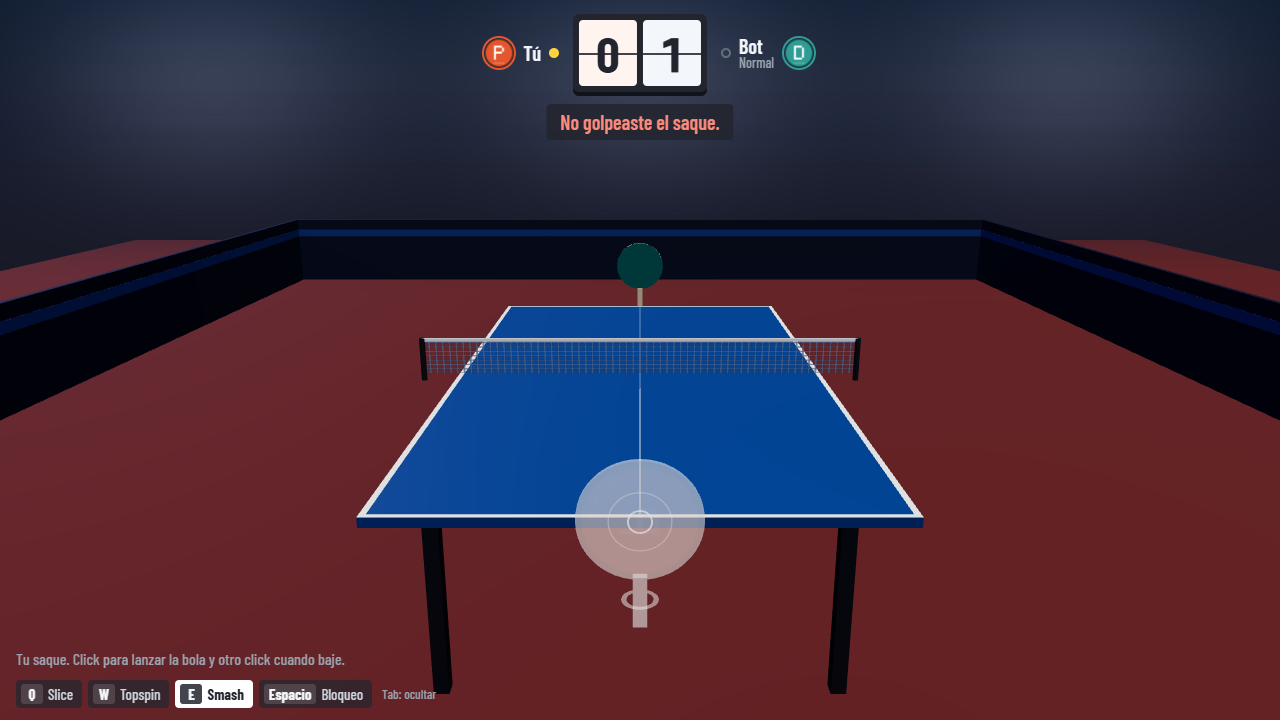
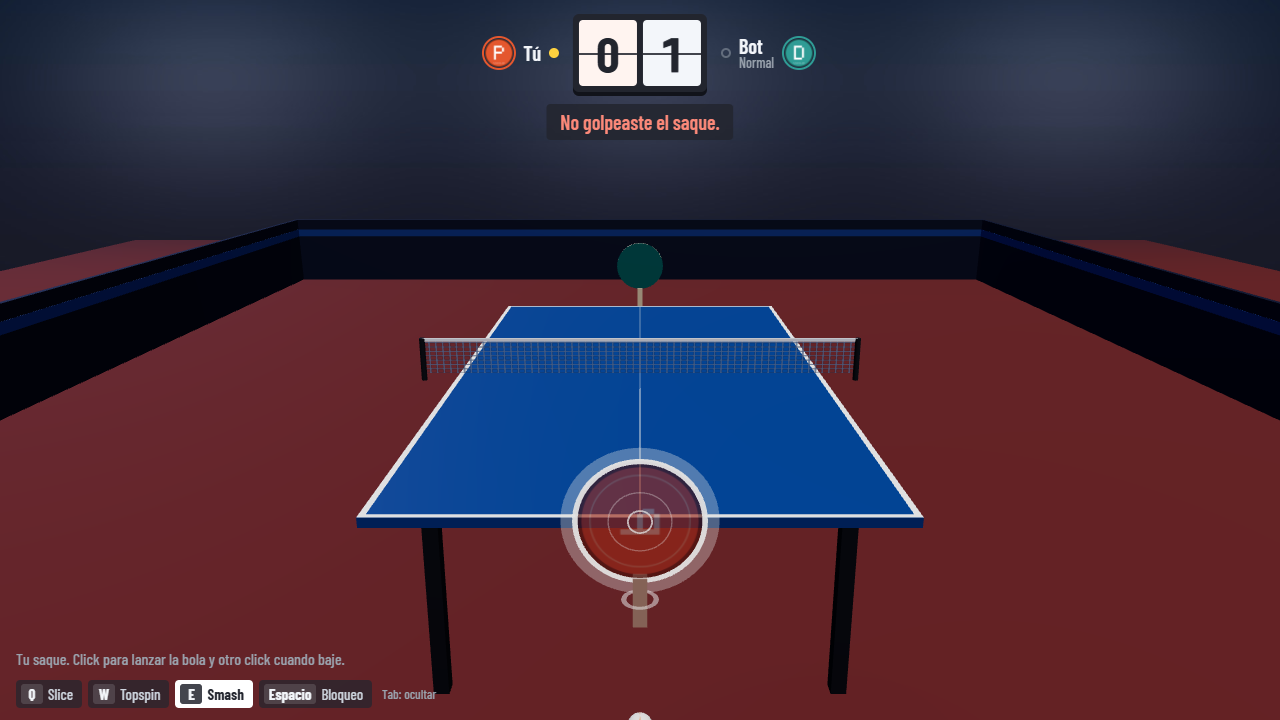
feat(client): held shot key lights only the paddle outline
Author's request (2026-10-03): "que solo se ilumine el contorno, no toda la
raqueta". The face, rim and handle keep their look; a ring in the shot colour
sits on the edge of the local paddle (1.2 cm) with a soft halo outside
(2.5 cm, opacity 0.35) while the key is held. The PERFECT flash is back to
the face-only flash of V0.2b. Checked in the browser for Q/W/E/Space; the
held-key screenshots are regenerated.

Changed region(s): [[0.4375, 0.6111, 0.5625, 0.8556], [0.4688, 0.9778, 0.5312, 1.0]]

diff --git a/client/src/render/world.ts b/client/src/render/world.ts
@@ -47,26 +47,35 @@ export interface RenderFrame {
   bounceMarker: { x: number; z: number; alpha: number } | null;
   shake: { x: number; y: number };
   /**
-   * Tecla de golpe mantenida (V0.2b): la raqueta del jugador local se ilumina con el color del golpe, o null. Las
-   * teclas del rival no se dibujan nunca (§13).
+   * Tecla de golpe mantenida (V0.2b): el contorno de la raqueta del jugador local se ilumina con el color del golpe,
+   * o null. Las teclas del rival no se dibujan nunca (§13).
    */
-  heldGlow?: { color: string } | null;
+  heldOutline?: { color: string } | null;
 }
 
 class PaddleView {
   readonly group = new THREE.Group();
   private readonly pivot = new THREE.Group();
   private readonly faceMat: THREE.MeshStandardMaterial;
-  private readonly rimMat: THREE.MeshStandardMaterial;
-  private readonly accent: THREE.Color;
-  private readonly glowColor = new THREE.Color();
+  /** Contorno de la tecla mantenida (V0.2b): aro en el borde y halo suave por fuera. */
+  private readonly outline = new THREE.Group();
+  private readonly outlineMat: THREE.MeshBasicMaterial;
+  private readonly haloMat: THREE.MeshBasicMaterial;
   private readonly side: Side;
 
-  constructor(side: Side, character: CharacterId, radius: number, perfectFrac: number, goodFrac: number, translucent: boolean, loader: THREE.TextureLoader) {
+  constructor(
+    side: Side,
+    character: CharacterId,
+    radius: number,
+    perfectFrac: number,
+    goodFrac: number,
+    translucent: boolean,
+    loader: THREE.TextureLoader,
+    outline: { width: number; halo: number; haloOpacity: number },
+  ) {
     this.side = side;
     const ch = CHARACTERS[character];
     const accent = new THREE.Color(ch.color);
-    this.accent = accent;
     const url = assetUrl(ch.paddle);
     const tex = url ? loader.load(url) : null;
     if (tex) {
@@ -78,8 +87,7 @@ class PaddleView {
     const opacity = translucent ? 0.62 : 1;
     this.faceMat = new THREE.MeshStandardMaterial({ map: tex, color: tex ? 0xffffff : accent, roughness: 0.7, transparent: translucent, opacity, emissive: accent, emissiveIntensity: 0 });
     const backMat = new THREE.MeshStandardMaterial({ color: accent.clone().multiplyScalar(0.45), roughness: 0.8, transparent: translucent, opacity });
-    const rimMat = new THREE.MeshStandardMaterial({ color: 0xd9c7a3, roughness: 0.6, transparent: translucent, opacity, emissive: 0x000000 });
-    this.rimMat = rimMat;
+    const rimMat = new THREE.MeshStandardMaterial({ color: 0xd9c7a3, roughness: 0.6, transparent: translucent, opacity });
 
     // Cilindro con el eje en z: la cara circular mira a la red / a la cámara.
     const face = new THREE.Mesh(new THREE.CylinderGeometry(radius, radius, 0.012, 48), [rimMat, this.faceMat, backMat]);
@@ -97,17 +105,25 @@ class PaddleView {
     r2.position.z = ringZ;
     this.pivot.add(r1, r2);
 
+    // Contorno de la tecla mantenida: solo el borde de la cara, por delante de ella (el resto de la raqueta no cambia).
+    this.outlineMat = new THREE.MeshBasicMaterial({ color: 0xffffff, transparent: true, opacity: 0.95, depthWrite: false, side: THREE.DoubleSide });
+    this.haloMat = new THREE.MeshBasicMaterial({ color: 0xffffff, transparent: true, opacity: outline.haloOpacity, depthWrite: false, side: THREE.DoubleSide });
+    const edge = new THREE.Mesh(new THREE.RingGeometry(radius - outline.width * 0.5, radius + outline.width * 0.5, 64), this.outlineMat);
+    const halo = new THREE.Mesh(new THREE.RingGeometry(radius + outline.width * 0.5, radius + outline.width * 0.5 + outline.halo, 64), this.haloMat);
+    edge.position.z = ringZ * 1.1;
+    halo.position.z = ringZ * 1.1;
+    this.outline.add(edge, halo);
+    this.outline.visible = false;
+    this.pivot.add(this.outline);
+
     const handle = new THREE.Mesh(new THREE.BoxGeometry(0.032, 0.12, 0.024), rimMat);
     handle.position.y = -radius - 0.055;
     this.pivot.add(handle);
     this.group.add(this.pivot);
   }
 
-  /**
-   * Brillo de la tecla mantenida (V0.2b): la cara y el canto se iluminan con el color del golpe. El destello del golpe
-   * (`flash`) manda sobre él cuando es más intenso.
-   */
-  update(f: PaddleFrame, glow: { color: string; intensity: number } | null = null): void {
+  /** `outline`: color del contorno de la tecla mantenida (V0.2b), o null. */
+  update(f: PaddleFrame, outline: string | null = null): void {
     this.group.position.set(f.x + f.reach.x, f.y + f.reach.y, f.z + f.reach.z);
     const sgn = sideSign(this.side);
     if (f.swing !== null) {
@@ -121,22 +137,17 @@ class PaddleView {
       this.pivot.rotation.set(0, 0, 0);
       this.pivot.position.set(0, 0, 0);
     }
-    const flash = f.flash * 0.9;
-    if (glow && glow.intensity >= flash) {
-      this.faceMat.emissive.copy(this.glowColor.set(glow.color));
-      this.faceMat.emissiveIntensity = glow.intensity;
-      this.rimMat.emissive.copy(this.glowColor);
-      this.rimMat.emissiveIntensity = glow.intensity * 1.2;
-    } else {
-      this.faceMat.emissive.copy(this.accent);
-      this.faceMat.emissiveIntensity = flash;
-      this.rimMat.emissiveIntensity = 0;
+    this.faceMat.emissiveIntensity = f.flash * 0.9;
+    this.outline.visible = outline !== null;
+    if (outline) {
+      this.outlineMat.color.set(outline);
+      this.haloMat.color.set(outline);
     }
   }
 
-  /** ¿Está iluminada por una tecla mantenida? (para pruebas automáticas). */
-  get glowing(): boolean {
-    return this.rimMat.emissiveIntensity > 0;
+  /** ¿Se ve el contorno de la tecla mantenida? (para pruebas automáticas). */
+  get outlined(): boolean {
+    return this.outline.visible;
   }
 }
 
@@ -467,9 +478,11 @@ export class World {
     this.scene.add(this.shadow);
 
     const pc = cfg.paddle;
+    const sp = pres.sparks;
+    const outline = { width: sp.outlineWidth, halo: sp.haloWidth, haloOpacity: sp.haloOpacity };
     this.paddles = [
-      new PaddleView(0, characters[0], pc.radius, cfg.hit.perfectPos, cfg.hit.goodPos, true, loader),
-      new PaddleView(1, characters[1], pc.radius, cfg.hit.perfectPos, cfg.hit.goodPos, false, loader),
+      new PaddleView(0, characters[0], pc.radius, cfg.hit.perfectPos, cfg.hit.goodPos, true, loader, outline),
+      new PaddleView(1, characters[1], pc.radius, cfg.hit.perfectPos, cfg.hit.goodPos, false, loader, outline),
     ];
     this.scene.add(this.paddles[0].group, this.paddles[1].group);
     this.sparks = new Sparks();
@@ -575,9 +588,9 @@ export class World {
     return this.sparks.alive;
   }
 
-  /** ¿Está iluminada la raqueta del jugador por una tecla mantenida? (para pruebas automáticas). */
-  get heldGlowVisible(): boolean {
-    return this.paddles[0].glowing;
+  /** ¿Se ve el contorno de la tecla mantenida en la raqueta del jugador? (para pruebas automáticas). */
+  get heldOutlineVisible(): boolean {
+    return this.paddles[0].outlined;
   }
 
   /** Proyecta un punto del mundo a píxeles CSS del canvas. */
@@ -614,8 +627,7 @@ export class World {
     this.shadow.scale.setScalar(r * (1.6 + height * 1.4));
     this.shadowMat.opacity = Math.max(0.45, 0.95 - height * 0.7);
 
-    const glow = f.heldGlow ? { color: f.heldGlow.color, intensity: this.cfg.presentation.sparks.heldGlow } : null;
-    this.paddles[0].update(f.paddles[0], glow);
+    this.paddles[0].update(f.paddles[0], f.heldOutline ? f.heldOutline.color : null);
     this.paddles[1].update(f.paddles[1]);
     this.sparks.update(f.dt ?? 1 / 60);
 

diff --git a/client/e2e/keys-check.js b/client/e2e/keys-check.js
@@ -151,20 +151,20 @@ async (page) => {
   await page.goto(base + '?autostart=1&bot=medium&seed=23&offset=0');
   await page.waitForTimeout(600);
 
-  // ——— Tecla mantenida: barra iluminada y raqueta iluminada con el color del golpe (antes de golpear) ———
+  // ——— Tecla mantenida: barra iluminada y contorno de la raqueta del color del golpe (antes de golpear) ———
   const held = [];
   await page.mouse.move(640, 560);
   await page.waitForTimeout(300);
   for (const [name, code] of Object.entries(KEY)) {
     await page.keyboard.down(code);
     await page.waitForTimeout(220);
-    const s = await page.evaluate(() => ({ kb: window.__ppp.debugState().keyBar.active, sparks: window.__ppp.debugState().sparks.glow }));
-    held.push({ key: code, bar: s.kb, glow: s.sparks });
+    const s = await page.evaluate(() => ({ kb: window.__ppp.debugState().keyBar.active, outline: window.__ppp.debugState().sparks.outline }));
+    held.push({ key: code, bar: s.kb, outline: s.outline });
     await page.screenshot({ path: `${SHOT_DIR}/held-${name.toLowerCase()}.png` });
     await page.keyboard.up(code);
   }
   await page.waitForTimeout(150);
-  const heldOff = await page.evaluate(() => ({ kb: window.__ppp.debugState().keyBar.active, sparks: window.__ppp.debugState().sparks.glow }));
+  const heldOff = await page.evaluate(() => ({ kb: window.__ppp.debugState().keyBar.active, outline: window.__ppp.debugState().sparks.outline }));
 
   // ——— Fase A: golpes pedidos con tecla; fase B: casos explicados ———
   const rotation = ['TOPSPIN', 'SLICE', 'NORMAL', 'SMASH', 'BLOCK'];

diff --git a/client/src/game/game.ts b/client/src/game/game.ts
@@ -669,8 +669,8 @@ export class Game {
     }
 
     const inPlay = s.phase === 'rally' || s.phase === 'serveToss' || s.phase === 'pointOver';
-    // Tecla de golpe mantenida (V0.2b): se ilumina en la barra y TU raqueta se ilumina con el color del golpe. Solo
-    // el jugador local la ve: en multijugador el rival no debe recibir esta señal antes del golpe (§13).
+    // Tecla de golpe mantenida (V0.2b): se ilumina en la barra y el contorno de TU raqueta toma el color del golpe.
+    // Solo el jugador local la ve: en multijugador el rival no debe recibir esta señal antes del golpe (§13).
     const held = this.running && !this.paused ? this.heldShot() : null;
     this.hud.setKeyBarActive(held);
     const frame: RenderFrame = {
@@ -687,7 +687,7 @@ export class Game {
       target,
       bounceMarker: this.bounceMarker,
       shake,
-      heldGlow: held ? { color: this.shotColor(held) } : null,
+      heldOutline: held ? { color: this.shotColor(held) } : null,
     };
     this.world.render(frame);
     if (this.hud.debugVisible) this.updateDebug();
@@ -757,7 +757,7 @@ export class Game {
       lastBotShot: this.lastBotShot,
       lastStrokeText: this.lastStrokeText,
       keyBar: { visible: this.hud.keyBarVisible, active: this.hud.keyBarActive, saved: this.keyBarOn },
-      sparks: { glow: this.world.heldGlowVisible, alive: this.world.sparkCount },
+      sparks: { outline: this.world.heldOutlineVisible, alive: this.world.sparkCount },
       explain: this.explain,
       paddles: s.paddles.map((p) => ({ ...p.pos })),
       rally: { ...s.rally, bounces: [...s.rally.bounces] },

diff --git a/shared/src/config.ts b/shared/src/config.ts
@@ -500,15 +500,18 @@ export const DEFAULT_CONFIG = {
      * Señales del golpe (V0.2b), con los colores del trail: naranja topspin, magenta slice, blanco smash, cian bloqueo
      * (el golpe normal, dorado). Solo presentación; el color siempre va acompañado de texto (barra de teclas,
      * mensaje junto a la raqueta) [§19].
-     *  - Tecla mantenida (solo el jugador local; el rival nunca la ve, §13): la cara de TU raqueta se ilumina con el
-     *    color del golpe (`heldGlow`: intensidad del brillo). Decisión del autor (2026-10-03): sin partículas
-     *    alrededor, basta con iluminar la raqueta.
+     *  - Tecla mantenida (solo el jugador local; el rival nunca la ve, §13): se ilumina solo el CONTORNO de tu
+     *    raqueta con el color del golpe: un aro de `outlineWidth` m en el borde y un halo suave de `haloWidth` m por
+     *    fuera (opacidad `haloOpacity`). Decisiones del autor (2026-10-03): sin partículas alrededor; solo el
+     *    contorno, no toda la raqueta.
      *  - Al golpear: ráfaga de chispas que sale de la raqueta y se abre hacia fuera durante `burstMs`; más chispas
      *    cuanto mejor el golpe (`burst`), las del débil en gris, el fallo sin chispas. La ve también el rival (es tras
      *    el golpe, como sus mensajes, §5.2). Con reduceShakeAndFlash no hay ráfaga.
      */
     sparks: {
-      heldGlow: 0.6,
+      outlineWidth: 0.012,
+      haloWidth: 0.025,
+      haloOpacity: 0.35,
       burst: { PERFECT: 22, GOOD: 10, WEAK: 4 } as Record<'PERFECT' | 'GOOD' | 'WEAK', number>,
       burstMs: 300,
       normalColor: '#ffd23f',

diff --git a/docs/analisis_v0.2.md b/docs/analisis_v0.2.md
@@ -305,7 +305,7 @@ Arrancar con `npm run dev` (ver README). En todos los puntos sirve el panel `D`:
   - El cruce sigue siendo el gesto lateral de V0.1.
   - Feedback nuevo:
     - barra de teclas (Tab);
-    - la raqueta se ilumina con el color del golpe mientras mantienes la tecla (al principio eran chispas alrededor; B.10);
+    - el contorno de la raqueta toma el color del golpe mientras mantienes la tecla (al principio eran chispas alrededor; B.10);
     - ráfaga de chispas al golpear, según la calidad;
     - un texto que dice qué salió, con qué fuerza y por qué salió distinto de lo pedido.
 - **Evidencia.**
@@ -372,7 +372,7 @@ Cambian §3.3 ✅ y §4.6–§4.7. Se aplican como decisiones del autor; las pro
   - Visible por defecto.
   - **Tab** la muestra u oculta sin mover el foco, y la preferencia se guarda en el navegador (`ppp.keyBar`).
   - La tecla mantenida se ilumina con el color del golpe; la letra y el nombre siguen ahí (§19).
-- **Tecla mantenida**: la cara y el canto de **tu** raqueta se iluminan con el color del golpe (naranja topspin, magenta slice, blanco smash, cian bloqueo); la del rival no se ilumina nunca.
+- **Tecla mantenida**: solo el **contorno** de **tu** raqueta se ilumina con el color del golpe (naranja topspin, magenta slice, blanco smash, cian bloqueo): un aro en el borde y un halo suave por fuera. La del rival no se ilumina nunca.
 - **Chispas** (`world.ts`, colores del trail; el normal, dorado):
   - al golpear, una ráfaga de 0.3 s se abre hacia fuera en el plano de la cara: 22 en PERFECT, 10 en GOOD, 4 grises en débil y ninguna en el fallo;
   - mezcla normal, no aditiva: con mezcla aditiva el magenta salía azulado sobre la mesa, lo mismo que pasó con el trail en V0.2.
@@ -397,7 +397,7 @@ Cambian §3.3 ✅ y §4.6–§4.7. Se aplican como decisiones del autor; las pro
 | Topspin | spin 100–340 rad/s · techo de ritmo 10 + 1.2·p · tarde → larga 0.5 | Débil: ~136 rad/s, poco más que un normal («flojo»). Completo: 340, como el máximo de V0.2 |
 | Slice | objetivo a 0.62 m del centro · se abre pronto 0.9 · lateral 100–350 rad/s · backspin 80 | «Más ángulo» desde cualquier sitio; riesgo «pronto → fuera» legible entre −50 y −72 ms |
 | Smash | ritmo 10.5 + 4.5·p (débil ~11.2, GOOD ~12.8, completo 15 m/s de simulación) | El completo, ~2 veces un normal. En V0.2 iba de 13 a 16 por la velocidad del gesto; ahora un smash débil es más lento de verdad |
-| Señales `presentation.sparks` | tecla mantenida: brillo de la raqueta 0.6 · ráfaga: 22 / 10 / 4 chispas, 300 ms | Se ven al mirar la raqueta sin tapar la bola. Medido en capturas a 1280×720 |
+| Señales `presentation.sparks` | tecla mantenida: contorno de 1.2 cm + halo de 2.5 cm (opacidad 0.35) · ráfaga: 22 / 10 / 4 chispas, 300 ms | Se ven al mirar la raqueta sin tapar la bola. Medido en capturas a 1280×720 |
 
 **Desaparecen**:
 - los umbrales y la potencia del gesto (`topspinThreshold`, `sliceThreshold`, `smashThreshold`, `…FullPower`);
@@ -442,7 +442,7 @@ Cambian §3.3 ✅ y §4.6–§4.7. Se aplican como decisiones del autor; las pro
 | Otras dificultades (20 partidas) | Fácil–Fácil 3.23 golpes/punto (V0.2: 3.20) · Difícil–Difícil 9.62 (V0.2: 9.36) · Normal–Difícil 6.47 |
 | **E2E con entrada humana** `client/e2e/keys-check.js` (Chromium, bot Normal) | Teclado real (`page.keyboard.down/up`) y clicks reales (`page.mouse`), sin gestos sintéticos, ±30 ms de error aleatorio con semilla. **30/30 golpes salieron del tipo pedido** (9 topspin, 5 slice, 3 smash con la bola a 18–22 cm, 8 normales, 5 bloqueos). 24 PERFECT y 6 GOOD, \|Δt\| medio 16.6 ms. Ráfaga: 22 chispas en PERFECT, 10 en GOOD |
 | E2E: casos explicados | Tecla 60 ms después del click → «NORMAL · pulsaste W después del click». Soltada 90 ms antes → «NORMAL · soltaste W antes del click». Persiguiendo → «TOPSPIN flojo · persiguiendo». Smash con la bola baja → «SMASH completo · bola baja para el smash» y «Red. Smash con la bola por debajo de la cinta (hacen falta 15 cm por encima).». Topspin +91 ms → «TOPSPIN flojo», 4 chispas grises y «Fuera. Topspin tarde (+91 ms): se te fue largo.». Slice −58 ms → «Fuera. Slice pronto (−58 ms): te pasaste de ángulo.» |
-| E2E: barra y accesibilidad | Las 4 teclas iluminan la barra y muestran chispas; al soltar, se apagan. Tab oculta y muestra la barra con el foco en `BODY`, guarda `ppp.keyBar` y la preferencia sobrevive a recargar. Con `?reduce=1`: 0 chispas tras 3 golpes |
+| E2E: barra y accesibilidad | Las 4 teclas iluminan la barra y el contorno de la raqueta; al soltar, se apagan. Tab oculta y muestra la barra con el foco en `BODY`, guarda `ppp.keyBar` y la preferencia sobrevive a recargar. Con `?reduce=1`: 0 chispas tras 3 golpes |
 | `shots-check.js` (V0.2, actualizado a teclas reales) | Topspin, slice, normal y bloqueo pedidos con su tecla. Bloquear un topspin de 160–220 rad/s → **−86 a −116** (backspin, trail cian). Avisos: smash bajo, slice pronto (−68 ms) → fuera, topspin −94 ms → red. En esa pasada el bot no dio ninguna bola alta (≥ 17 cm) para el smash; ese caso está en `keys-check` (3/3) |
 | Regresión E2E de V0.1 | `autoplay-rally`: rallies de 8 y 46 golpes, Δt iguales a los provocados (±13 ms). `aim-check`: colocado → cruza 22–67 cm; persiguiendo → recta (factor 0). `autoplay-errors`: game 2-11 con los errores provocados. `calibration-check`: +45 ms y luego 11/11 PERFECT con Δt medio de 0 ms |
 | Consola del navegador | 0 errores. El aviso conocido del AudioContext con `?autostart=1` |
@@ -452,7 +452,7 @@ Capturas en `docs/screenshots/v0.2b/`:
 | Archivo | Contenido |
 |---|---|
 | `01-menu.png` | Menú con las instrucciones de V0.2b |
-| `held-topspin.png`, `held-slice.png`, `held-smash.png`, `held-block.png` | Tecla mantenida: barra iluminada y raqueta iluminada con el color del golpe |
+| `held-topspin.png`, `held-slice.png`, `held-smash.png`, `held-block.png` | Tecla mantenida: barra iluminada y contorno de la raqueta del color del golpe |
 | `shot-*.png` | Cada golpe pedido con su tecla: ráfaga, mensaje («TOPSPIN completo»…) y trail |
 | `case-*.png` | Tecla a destiempo, persiguiendo, smash bajo, topspin tarde (chispas grises), slice pronto |
 | `keybar-hidden.png` | Barra oculta con Tab |
@@ -509,7 +509,7 @@ El resto de los 164 tests pasa sin cambios. `block.test.ts` también: el bloqueo
 Arrancar con `npm run dev` (ver README). Con `debug=1`, el panel `D` muestra «Teclas en el click», «Tipo · potencia» y «Puntería».
 
 1. **Teclas y barra** — `http://localhost:5173/?bot=easy&debug=1`. Durante la partida, sin hacer click, mantén Q, luego W, luego E y luego Espacio.
-   - Mirar: la tecla se ilumina abajo a la izquierda y tu raqueta se ilumina: magenta (Q), naranja (W), blanca (E), cian (Espacio).
+   - Mirar: la tecla se ilumina abajo a la izquierda y el contorno de tu raqueta toma su color: magenta (Q), naranja (W), blanco (E), cian (Espacio).
    - Pulsa Tab: la barra desaparece; Tab otra vez: vuelve. Recarga la página: se queda como la dejaste.
 2. **Topspin** — misma URL. Colócate donde va a llegar la bola un momento antes, mantén W y haz click cuando la bola llegue al centro.
    - Mirar: «¡Perfecto!» y debajo «TOPSPIN completo», muchas chispas naranjas y trail naranja. Con un «Bien»: «TOPSPIN reducido» y menos chispas.
@@ -540,7 +540,7 @@ Arrancar con `npm run dev` (ver README). Con `debug=1`, el panel `D` muestra «T
 | Cambio | Antes | Ahora | Verificación |
 |---|---|---|---|
 | **Teclas de golpe** | W topspin · S slice · E smash | **Q slice · W topspin · E smash** (solo cambia S por Q). La barra va en el orden del teclado: `Q Slice · W Topspin · E Smash · Espacio Bloqueo` | E2E `keys-check` con teclado real: 30/30 golpes del tipo pedido (5 slices con Q); S ya no hace nada |
-| **Tecla mantenida** | 6 chispas suaves girando alrededor de la raqueta | **La raqueta se ilumina** (cara y canto) con el color del golpe: «sin partículas alrededor, basta con iluminar la raqueta». La ráfaga de chispas al golpear no cambia | `held-*.png`: magenta (Q), naranja (W), blanco (E), cian (Espacio); al soltar, se apaga. El destello del PERFECT manda sobre el brillo mientras es más intenso |
+| **Tecla mantenida** | 6 chispas suaves girando alrededor de la raqueta | **Solo se ilumina el contorno** de la raqueta, con el color del golpe: un aro en el borde (1.2 cm) y un halo suave por fuera (2.5 cm, opacidad 0.35). La cara y el mango no cambian. Primero se probó iluminar toda la raqueta; el autor pidió «que solo se ilumine el contorno, no toda la raqueta». La ráfaga de chispas al golpear no cambia | `held-*.png`: aro magenta (Q), naranja (W), blanco (E), cian (Espacio); al soltar, desaparece |
 
 **Especial (§3.3 ✅: Q).** La Q pasa a ser el slice, así que el Especial de V0.5 necesita otra tecla. El autor eligió **R**, al lado de Q W E (P48). No cambia nada ahora: el Especial aún no existe.
 

diff --git a/README.md b/README.md
@@ -46,7 +46,7 @@ Otros comandos:
 | Fuerza del golpe | Sale de la **calidad**: ¡Perfecto! = golpe completo; Bien = reducido; pronto, tarde o con el borde = flojo y más arriesgado. Si llegas persiguiendo la bola, la mitad |
 | Cruzar la bola | Con la raqueta **ya colocada**, un gesto lateral seco del ratón al hacer click (vale con cualquier golpe). Pronto te pasas de ángulo; tarde no llegas a cruzar. Persiguiendo, la bola sale recta |
 | Bloqueo | Mantén **Espacio** y haz click. Devuelve con la fuerza de la bola que llega; mientras mantienes Espacio, la raqueta va al 50 % |
-| Barra de teclas | Abajo a la izquierda durante la partida; la tecla mantenida se ilumina y tu raqueta se ilumina con el color del golpe. **Tab** la muestra u oculta (se guarda en este navegador) |
+| Barra de teclas | Abajo a la izquierda durante la partida; la tecla mantenida se ilumina y el contorno de tu raqueta toma el color del golpe. **Tab** la muestra u oculta (se guarda en este navegador) |
 | Calibrar la latencia | Botón «Calibrar latencia» en la pantalla de inicio: 12 bolas, click cuando lleguen al centro de la raqueta. Se guarda en este navegador |
 | «¿Por qué fallé?» | Activado por defecto; se apaga en la pantalla de inicio («Explicar mis errores») |
 | Sacar | Click para lanzar la bola (o esperar 1 s) y click cuando baje |
